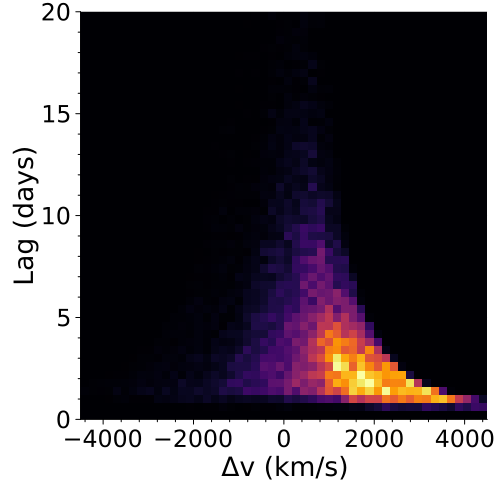
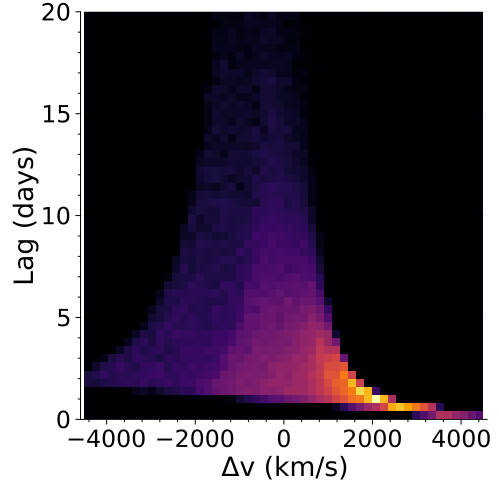
refactor rotate3D, regenerate P14 example in higher resolution

Changed region(s): [[0.1503, 0.0, 0.992, 0.9018], [0.3307, 0.8417, 0.481, 0.9018], [0.1503, 0.8417, 0.3006, 0.9018]]

diff --git a/docs/src/usage_examples.md b/docs/src/usage_examples.md
@@ -152,10 +152,10 @@ vEdges = collect(range(-0.015,stop=0.015,length=51)) #Δλ/λ ~ v/c
 tEdges = collect(range(0.0,stop=20.0/rsDay,length=51))
 Ψ1 = BLR.getΨ(mP1,vEdges,tEdges)
 Ψ2 = BLR.getΨ(mP2,vEdges,tEdges)
-p1 = heatmap(vEdges.*3e5,tEdges.*rsDay,(Ψ1'./maximum(Ψ1)),ylims=(0,20),cbar=false,
+p1 = heatmap(vEdges.*3e5,tEdges.*rsDay,(Ψ1'./maximum(Ψ1)).^(1/2),ylims=(0,20),cbar=false,
     xlabel="Δv (km/s)",ylabel="Lag (days)",minorticks=true,tickdirection=:out,
     widen=false,size=(500,500),guidefontsize=18,tickfontsize=16)
-p2 = heatmap(vEdges.*3e5,tEdges.*rsDay,(Ψ2'./maximum(Ψ2)),ylims=(0,20),cbar=false,
+p2 = heatmap(vEdges.*3e5,tEdges.*rsDay,(Ψ2'./maximum(Ψ2)).^(1/2),ylims=(0,20),cbar=false,
     xlabel="Δv (km/s)",ylabel="Lag (days)",minorticks=true,tickdirection=:out,
     widen=false,size=(500,500),guidefontsize=18,tickfontsize=16)
 ```
